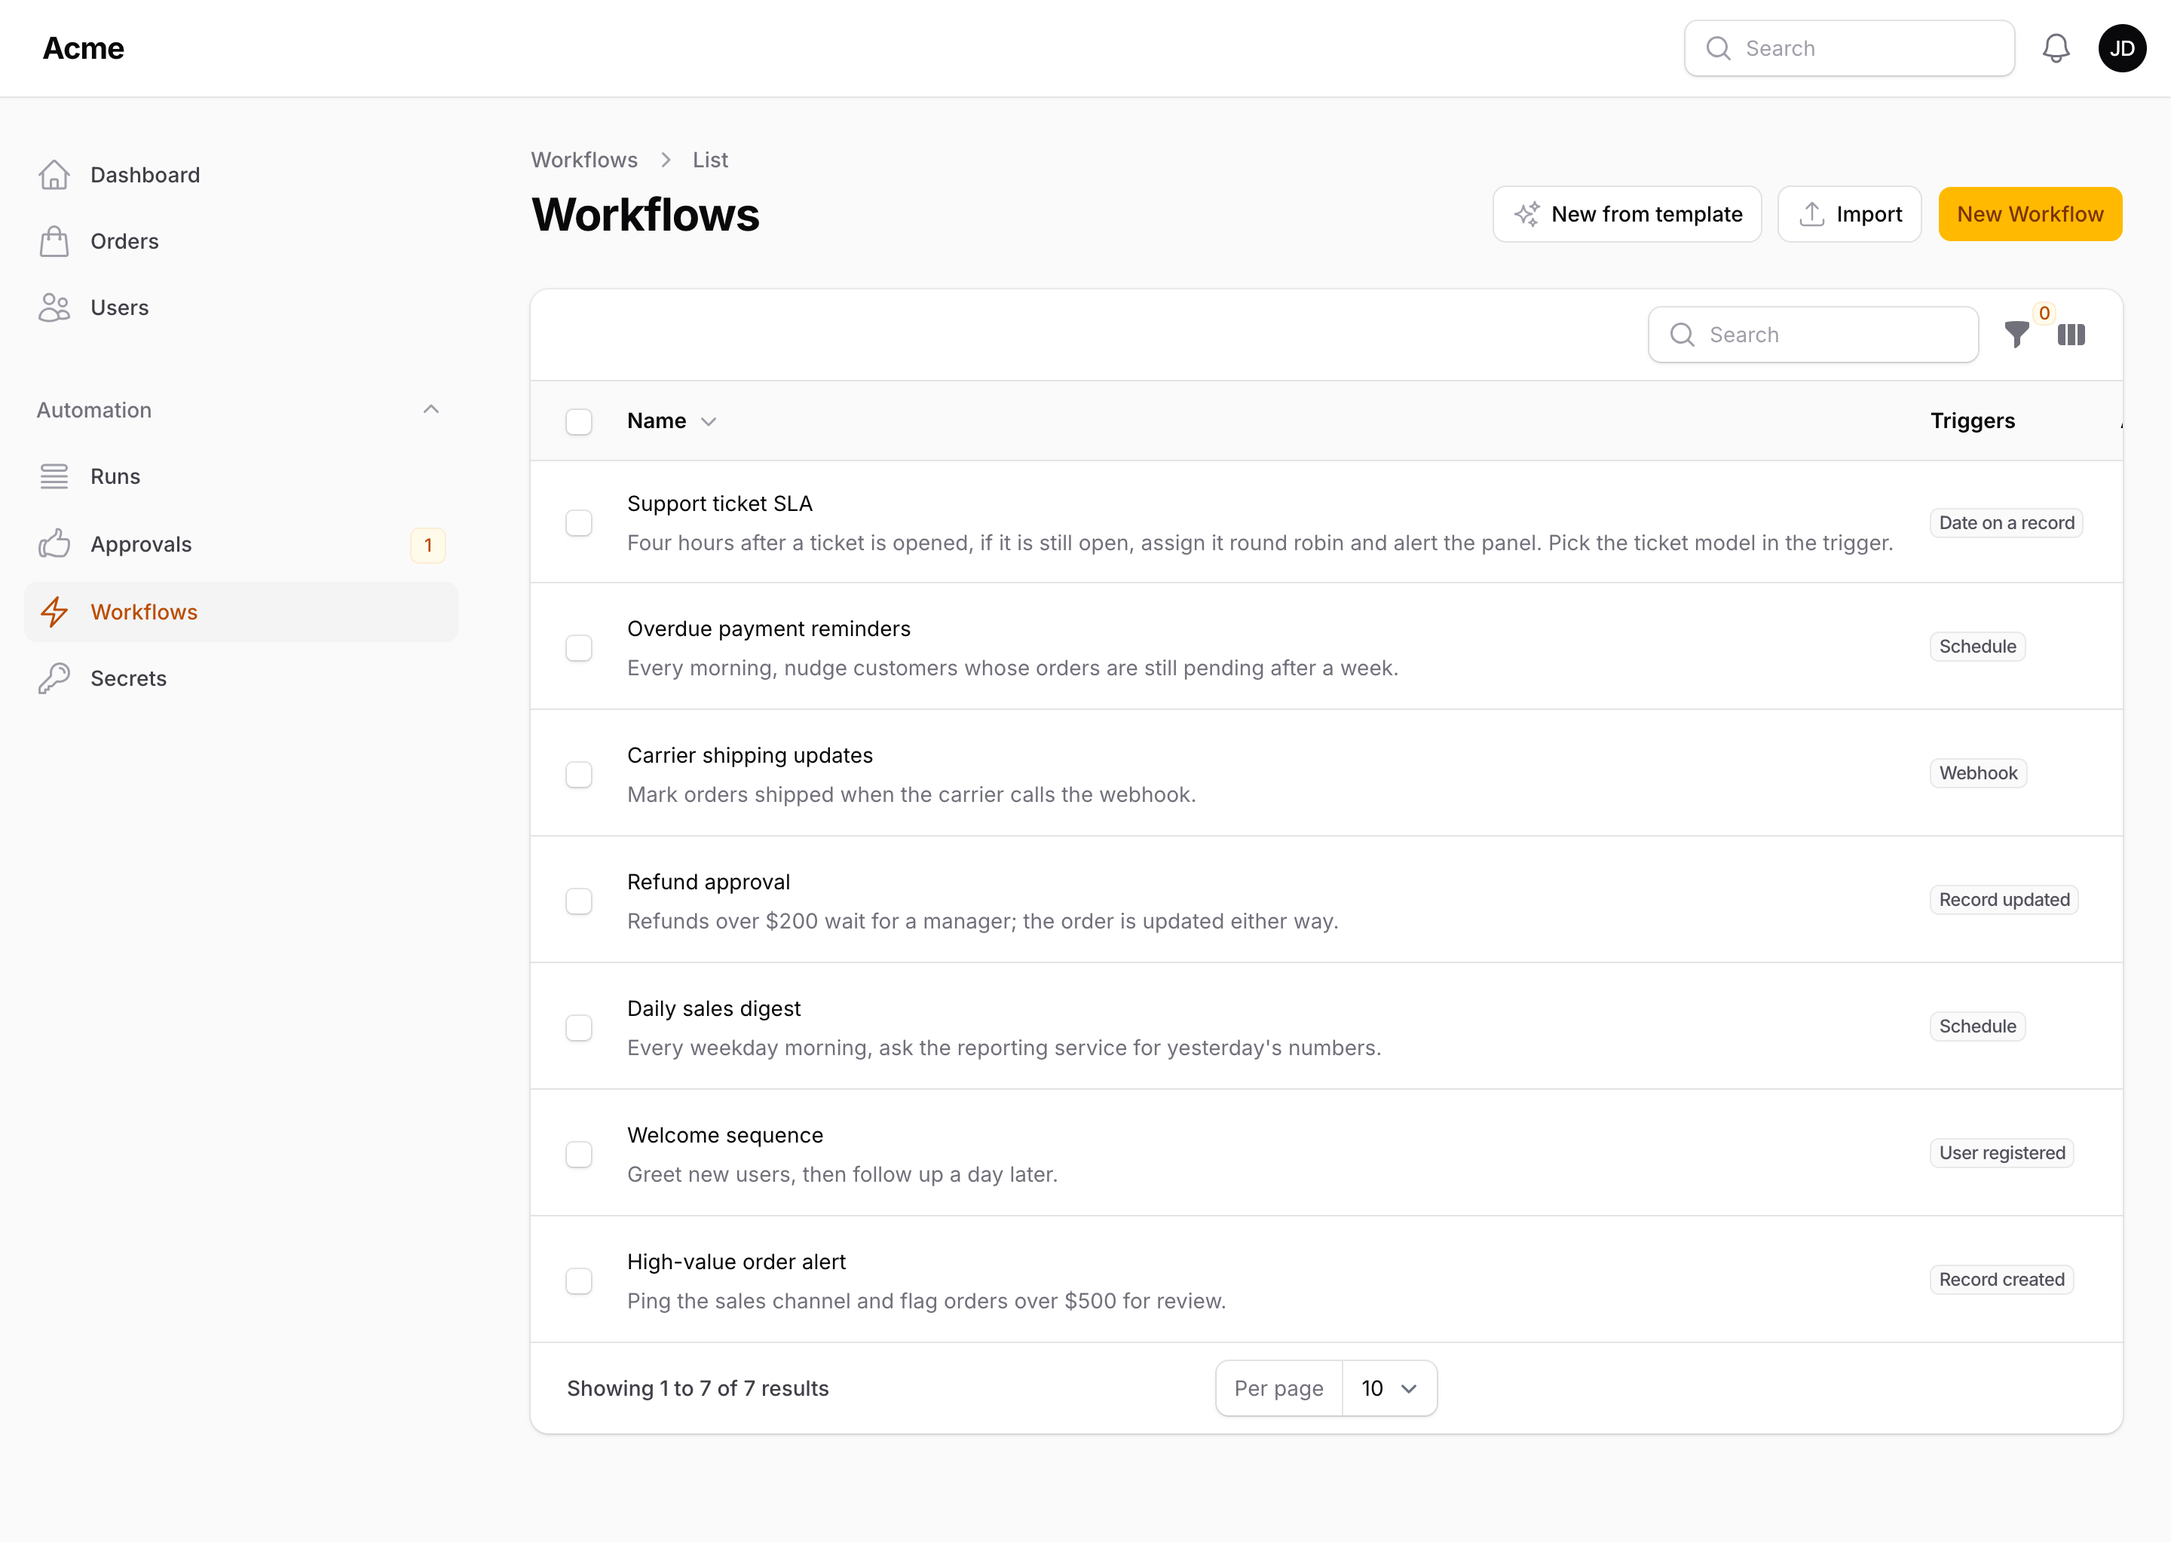
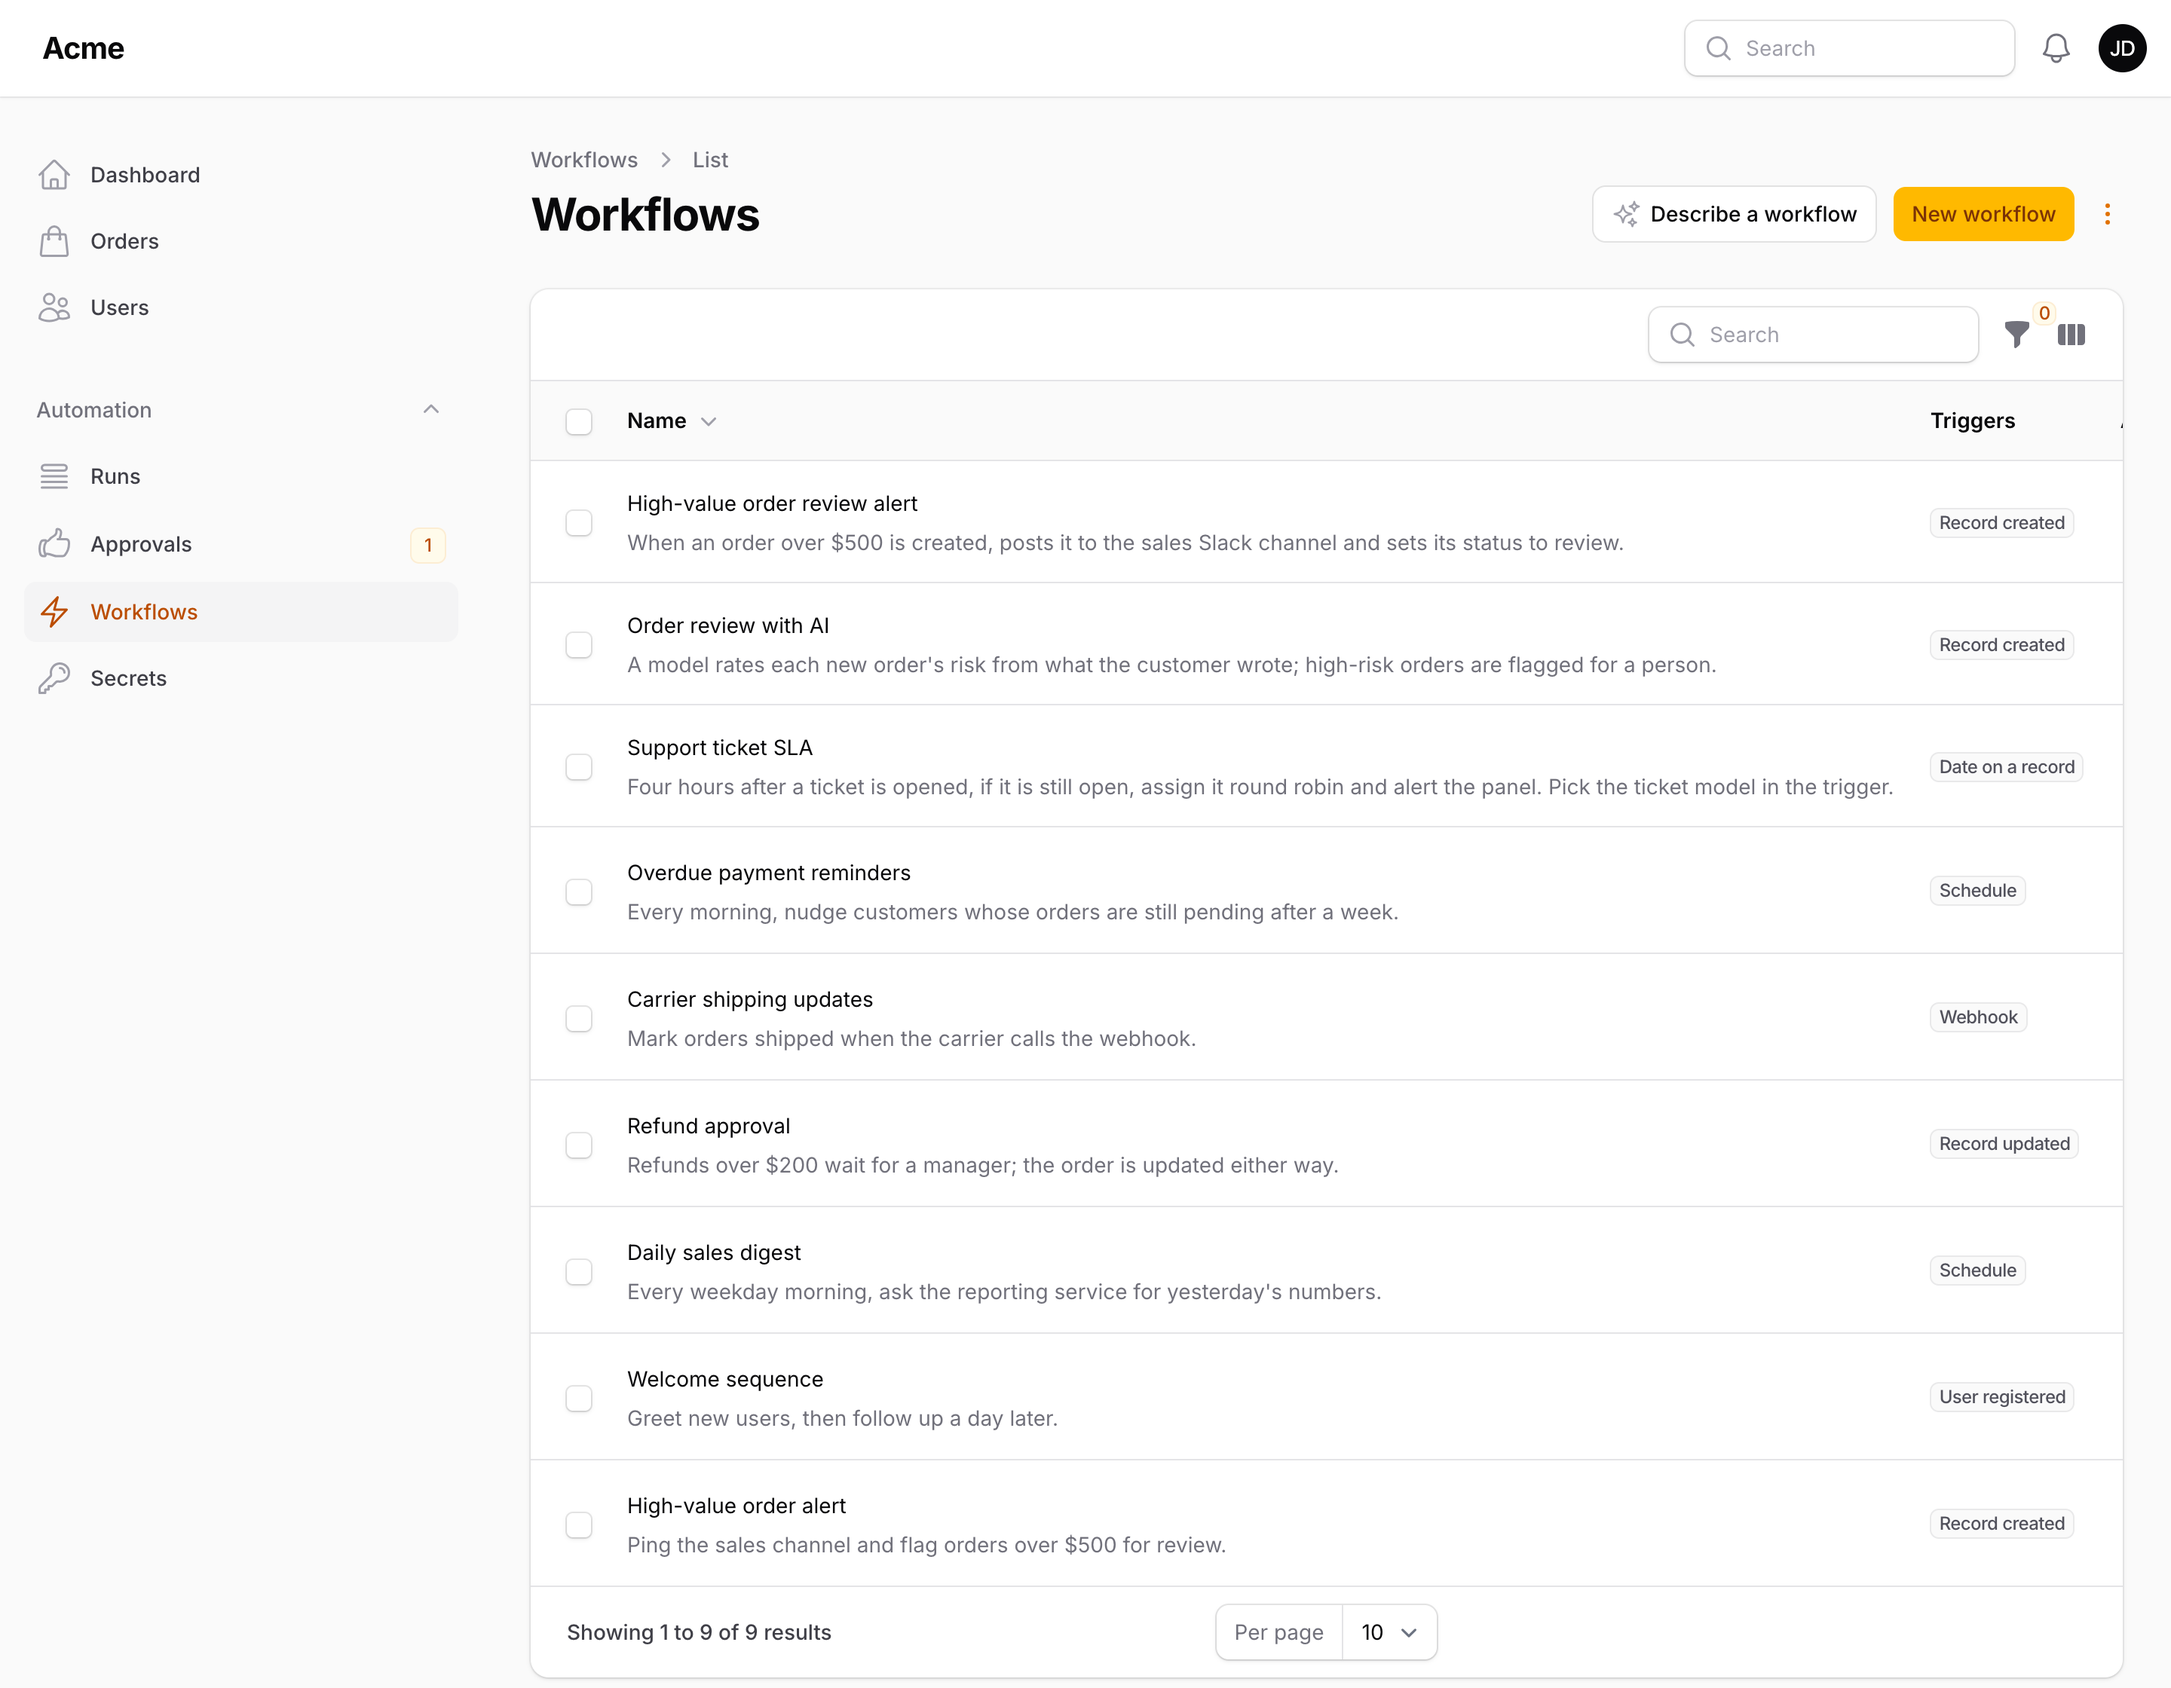
Workflows page header: one primary button, Describe beside it, the rarer starters behind a menu; starters on the empty table

diff --git a/src/Filament/Resources/WorkflowResource/Pages/ListWorkflows.php b/src/Filament/Resources/WorkflowResource/Pages/ListWorkflows.php
@@ -3,6 +3,7 @@
 namespace Packstub\Flow\Filament\Resources\WorkflowResource\Pages;
 
 use Filament\Actions\Action;
+use Filament\Actions\ActionGroup;
 use Filament\Actions\CreateAction;
 use Filament\Forms\Components\FileUpload;
 use Filament\Forms\Components\Radio;
@@ -30,6 +31,12 @@ class ListWorkflows extends ListRecords
 {
     protected static string $resource = WorkflowResource::class;
 
+    /**
+     * One primary button (a blank canvas), the model-drafted way beside it
+     * when the engine is installed, and the rarer starters — a template,
+     * an import — behind the more-actions menu at the end, where its
+     * dropdown hangs from the right edge.
+     */
     protected function getHeaderActions(): array
     {
         $limit = static::workflowLimit();
@@ -38,9 +45,35 @@ class ListWorkflows extends ListRecords
 
         return [
             static::describeAction()->disabled($full)->tooltip($tooltip),
-            static::templateAction()->disabled($full)->tooltip($tooltip),
-            static::importAction()->disabled($full)->tooltip($tooltip),
-            CreateAction::make()->disabled($full)->tooltip($tooltip),
+            static::createAction()->disabled($full)->tooltip($tooltip),
+            ActionGroup::make([
+                static::templateAction()->disabled($full),
+                static::importAction()->disabled($full),
+            ])->tooltip($tooltip),
+        ];
+    }
+
+    /**
+     * The blank-canvas starter, in sentence case like the others.
+     */
+    public static function createAction(): CreateAction
+    {
+        return CreateAction::make()->label(__('packstub-flow::flow.actions.new'));
+    }
+
+    /**
+     * Every way to start a workflow, for the empty table: a first visit
+     * lands here, so the starters are shown where the rows will be.
+     *
+     * @return array<int, Action>
+     */
+    public static function starterActions(): array
+    {
+        return [
+            static::createAction(),
+            static::describeAction(),
+            static::templateAction(),
+            static::importAction(),
         ];
     }
 
@@ -133,7 +166,7 @@ class ListWorkflows extends ListRecords
     {
         return Action::make('template')
             ->label(__('packstub-flow::flow.templates.action'))
-            ->icon('heroicon-o-sparkles')
+            ->icon('heroicon-o-rectangle-stack')
             ->color('gray')
             ->visible(fn (): bool => Templates::all() !== [])
             ->modalHeading(__('packstub-flow::flow.templates.heading'))

diff --git a/tests/Feature/PanelTest.php b/tests/Feature/PanelTest.php
@@ -1,5 +1,6 @@
 <?php
 
+use Filament\Actions\ActionGroup;
 use Filament\Actions\Testing\TestAction;
 use Livewire\Livewire;
 use Packstub\Flow\Engine\Runner;
@@ -35,6 +36,27 @@ it('lists workflows in the panel navigation and table', function (): void {
 
     expect(WorkflowResource::getNavigationGroup())->toBe('Automation')
         ->and(WorkflowResource::getUrl())->toBe(url('/admin/workflows'));
+});
+
+it('keeps the header to a blank canvas and the model-drafted way, the other starters behind the menu beside them', function (): void {
+    [$describe, $create, $menu] = Livewire::test(ListWorkflows::class)->instance()->getCachedHeaderActions();
+
+    expect($menu)->toBeInstanceOf(ActionGroup::class)
+        ->and(array_keys($menu->getFlatActions()))->toBe(['template', 'import'])
+        ->and($menu->getFlatActions()['template']->getIcon())->toBe('heroicon-o-rectangle-stack')
+        ->and($describe->getName())->toBe('describe')
+        ->and($describe->getIcon())->toBe('heroicon-o-sparkles')
+        ->and($create->getName())->toBe('create')
+        ->and($create->getLabel())->toBe('New workflow');
+
+    // Every starter is offered where the rows will be, on a first visit.
+    Livewire::test(ListWorkflows::class)
+        ->assertSee('No workflows yet')
+        ->assertActionVisible(TestAction::make('create')->table())
+        ->assertActionVisible(TestAction::make('template')->table())
+        ->assertActionVisible(TestAction::make('import')->table())
+        ->assertSee('New workflow')
+        ->assertDontSee('New Workflow');
 });
 
 it('creates a workflow from the form with the canvas state', function (): void {

diff --git a/resources/lang/en/flow.php b/resources/lang/en/flow.php
@@ -108,6 +108,7 @@ return [
     ],
 
     'actions' => [
+        'new' => 'New workflow',
         'run' => 'Run now',
         'run_heading' => 'Run ":name" now?',
         'run_description' => 'The workflow starts from its first trigger with a minimal payload. Steps that need a record (record conditions, "Update record") will fail; use it to try schedules, webhooks and notifications.',
@@ -115,6 +116,11 @@ return [
         'run_finished' => 'Run finished: :status',
         'copy_of' => ':name (copy)',
         'limit_reached' => 'The limit of :limit workflows has been reached.',
+    ],
+
+    'empty' => [
+        'heading' => 'No workflows yet',
+        'description' => 'Draw one on the canvas, start from a template or an export, or describe what should happen and let a model draft it.',
     ],
 
     'transfer' => [

diff --git a/src/Filament/Resources/WorkflowResource.php b/src/Filament/Resources/WorkflowResource.php
@@ -176,6 +176,10 @@ class WorkflowResource extends Resource
                     ->toggleable(isToggledHiddenByDefault: true),
             ])
             ->defaultSort('updated_at', 'desc')
+            ->emptyStateHeading(__('packstub-flow::flow.empty.heading'))
+            ->emptyStateDescription(__('packstub-flow::flow.empty.description'))
+            ->emptyStateIcon('heroicon-o-bolt')
+            ->emptyStateActions(Pages\ListWorkflows::starterActions())
             ->filters([
                 TernaryFilter::make('is_active')->label(__('packstub-flow::flow.fields.is_active')),
             ])

diff --git a/docs/templates.md b/docs/templates.md
@@ -6,7 +6,7 @@ A workflow is data, so it can travel: start one from a template, describe it in 
 
 ![The template picker on the Workflows page](https://raw.githubusercontent.com/packstub/art/main/filament-flow/docs/templates.png)
 
-**New from template** on the Workflows page lists ready-made workflows by area. The area is written before each name while more than one is offered; an install that switched the built-in templates off and ships a single category of its own sees plain names. Pick one, give it a name, and it opens on the canvas with a red badge on every node that needs a choice from you — the record type of a trigger, the agents of a round-robin assignment — and a note in the node's description; the workflow cannot be switched on until they are filled, exactly like any other incomplete draft (see [Building workflows](building-workflows.md#saving)).
+**New from template**, in the more-actions menu (⋯) beside **New workflow** on the Workflows page, lists ready-made workflows by area. The area is written before each name while more than one is offered; an install that switched the built-in templates off and ships a single category of its own sees plain names. Pick one, give it a name, and it opens on the canvas with a red badge on every node that needs a choice from you — the record type of a trigger, the agents of a round-robin assignment — and a note in the node's description; the workflow cannot be switched on until they are filled, exactly like any other incomplete draft (see [Building workflows](building-workflows.md#saving)).
 
 Built in:
 
@@ -90,7 +90,7 @@ An export carries what is needed to rebuild the workflow somewhere else and noth
 
 ## Import
 
-**Import** on the Workflows page takes an export file or its pasted JSON, creates the workflow inactive (owned by the current tenant in a panel with [tenancy](tenancy.md)), and opens it with the nodes still to fill in marked. A document is refused with a message when it is not JSON, has no nodes, or uses a trigger, action or condition that is not registered in this install.
+**Import**, in the more-actions menu (⋯) on the Workflows page, takes an export file or its pasted JSON, creates the workflow inactive (owned by the current tenant in a panel with [tenancy](tenancy.md)), and opens it with the nodes still to fill in marked. A document is refused with a message when it is not JSON, has no nodes, or uses a trigger, action or condition that is not registered in this install.
 
 From code, for seeders, tests and deployments:
 

diff --git a/README.md b/README.md
@@ -88,7 +88,7 @@ use Packstub\Flow\Filament\Forms\Components\FlowBuilder;
 FlowBuilder::make('definition')->minHeight('70vh')
 ```
 
-Not sure where to start? **New from template** on the Workflows page offers a welcome series, a high-value order alert, dunning reminders, an SLA escalation and an approval flow, ready to adapt; with `packstub/agents` installed, **Describe a workflow** turns a sentence ("when an order over $500 comes in, post to Slack and flag it for review") into a draft built from your own triggers, conditions and actions, opened inactive with the nodes still to fill in marked; **Export** and **Import** move a workflow between panels as a JSON file.
+Not sure where to start? **New from template** (in the ⋯ menu on the Workflows page) offers a welcome series, a high-value order alert, dunning reminders, an SLA escalation and an approval flow, ready to adapt; with `packstub/agents` installed, **Describe a workflow** turns a sentence ("when an order over $500 comes in, post to Slack and flag it for review") into a draft built from your own triggers, conditions and actions, opened inactive with the nodes still to fill in marked; **Export** and **Import** (same menu) move a workflow between panels as a JSON file. An empty Workflows table offers every starter in its place.
 
 ![The template picker on the Workflows page](https://raw.githubusercontent.com/packstub/art/main/filament-flow/docs/templates.png)
 

diff --git a/CHANGELOG.md b/CHANGELOG.md
@@ -14,6 +14,7 @@ Upgrading: nothing to do — no migration, nothing removed or renamed. The **Des
 
 ### Changed
 
+- **Workflows page header**: one primary **New workflow** button (sentence case, like the others) with **Describe a workflow** beside it when the engine is installed; **New from template** and **Import** moved into the more-actions menu (⋯), so the header no longer wraps on narrower screens. The template action has its own icon (a stack); sparkles now means AI everywhere. An empty table shows the same starters in its place (`ListWorkflows::starterActions()`, `WorkflowResource` empty state) instead of a bare "No workflows".
 - The Ask AI action's tenant entering moved to `AgentTenant::within()`, shared with the builder; behaviour unchanged.
 
 ## 1.3.1 — 2026-09-16
